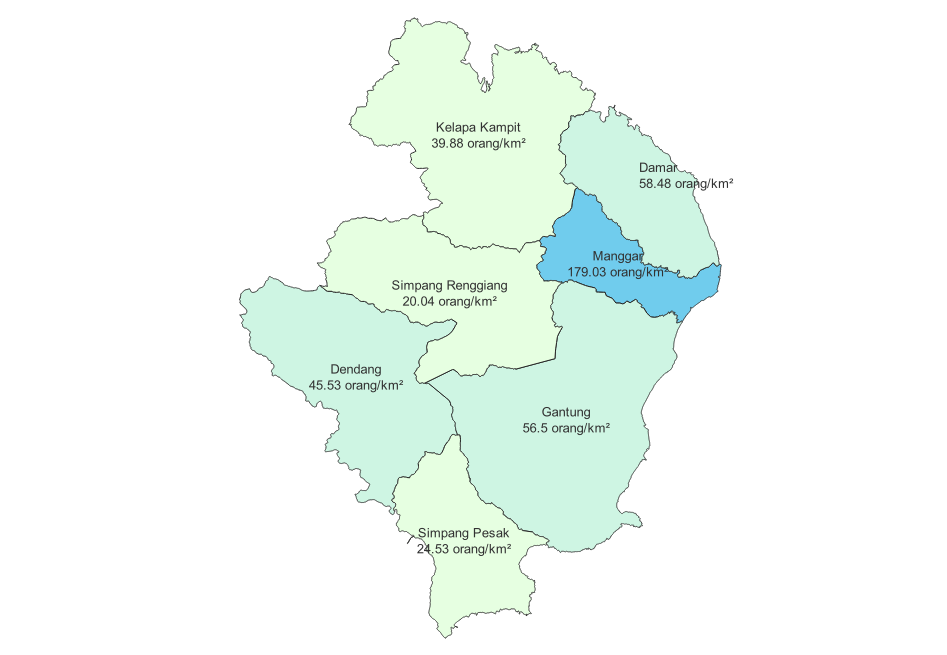
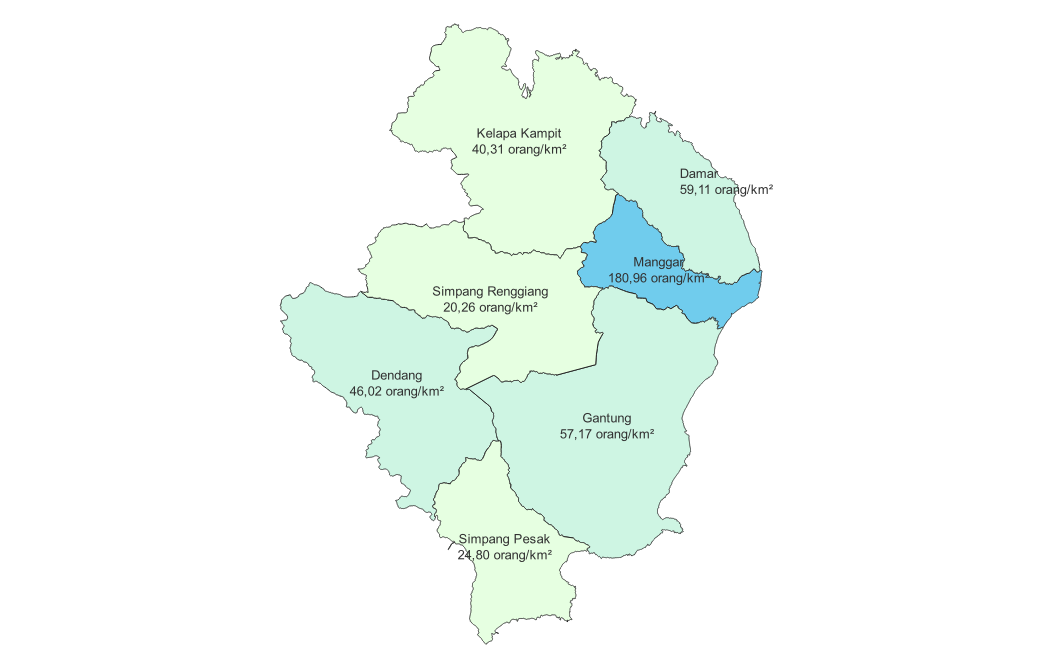
20260109 dell commit

Changed region(s): [[0.245, 0.0305, 0.7656, 0.9771]]

diff --git a/bab_01/bab_01_gambaran_umum.tex b/bab_01/bab_01_gambaran_umum.tex
@@ -101,7 +101,7 @@ Jumlah penduduk Kabupaten Belitung Timur pada tahun \tP diproyeksikan sebanyak
 
 \begin{figure}[H]
 	\centering
-%	\includegraphics[width=0.85\textwidth]{bab_01/bab_01_01_kepadatanPenduduk} % make this on QGIS
+	\includegraphics[width=0.85\textwidth]{bab_01/bab_01_01_kepadatanPenduduk} % make this on QGIS
 	\caption{Kepadatan Penduduk di Kab. Belitung Timur Tahun \tP per Kecamatan}
 	\label{fig:Kepadatan-Penduduk}
 \end{figure}
